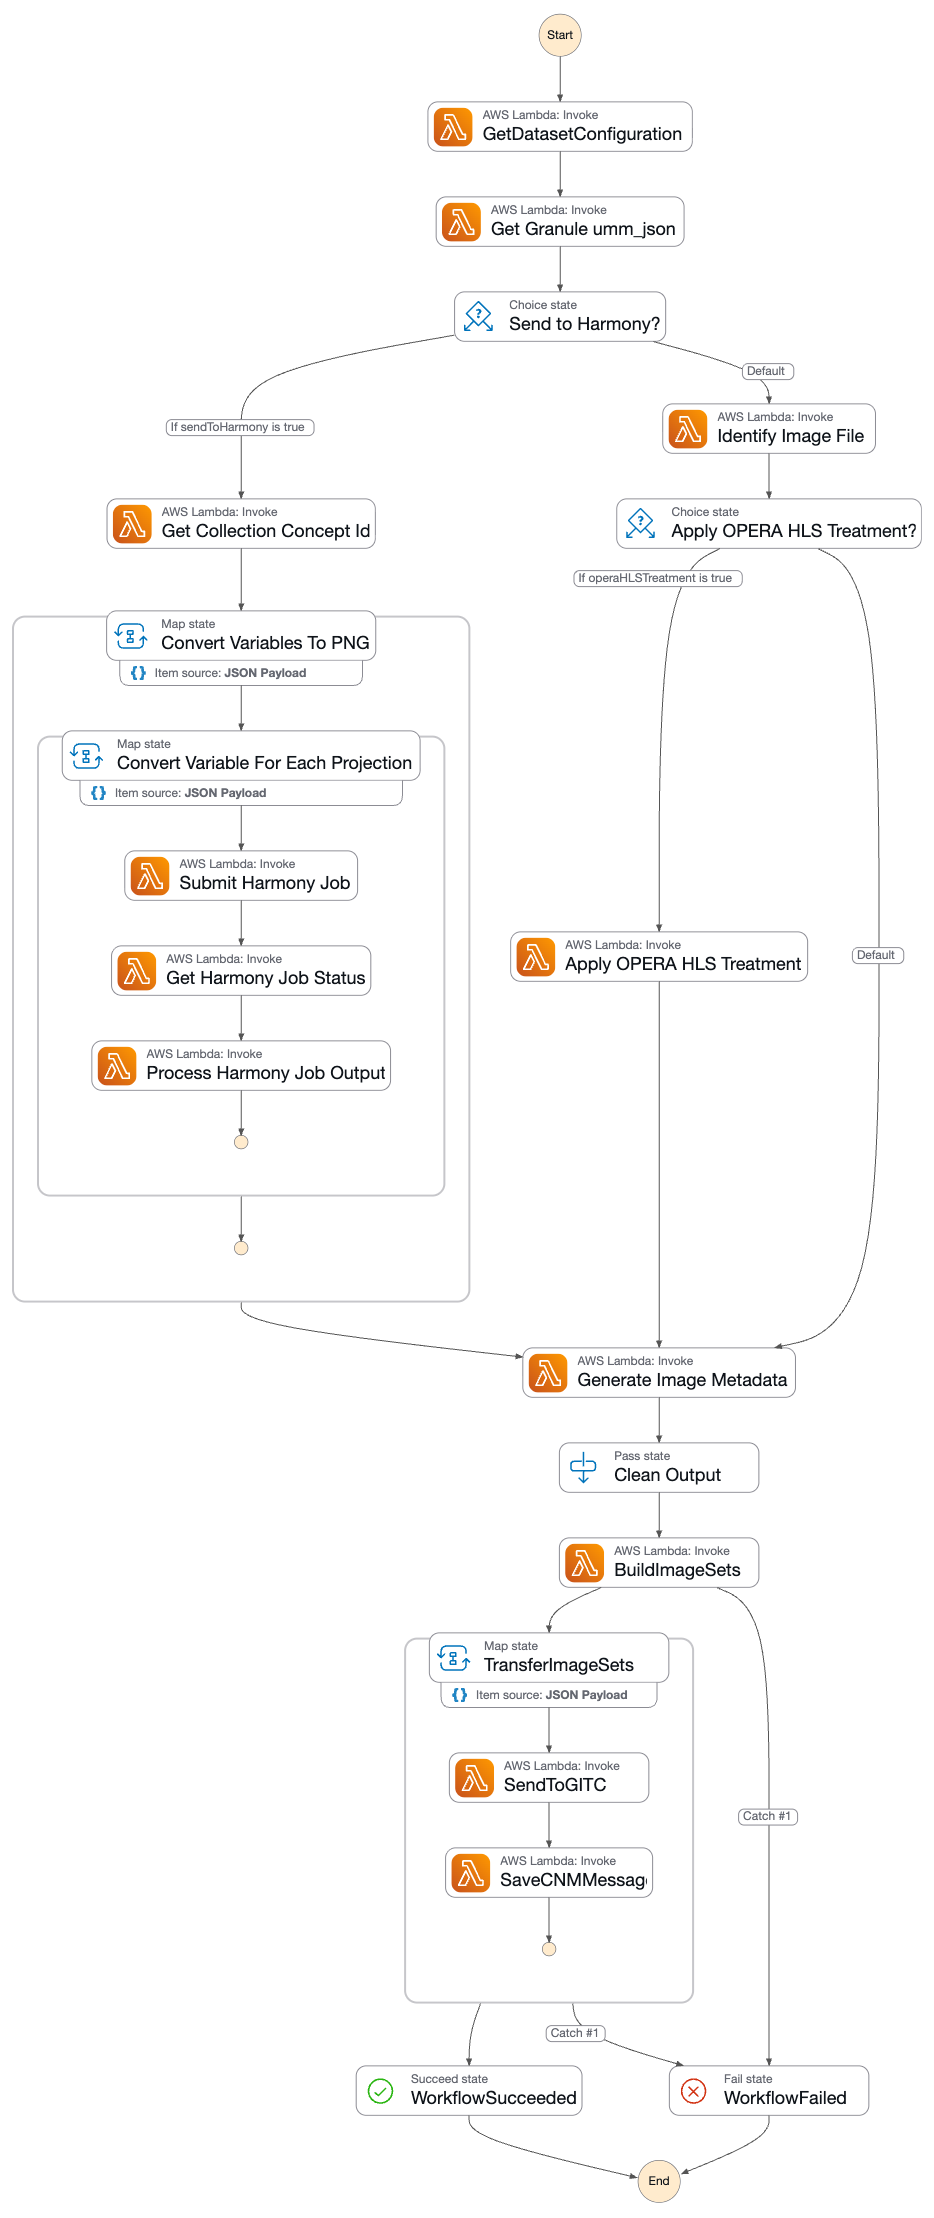
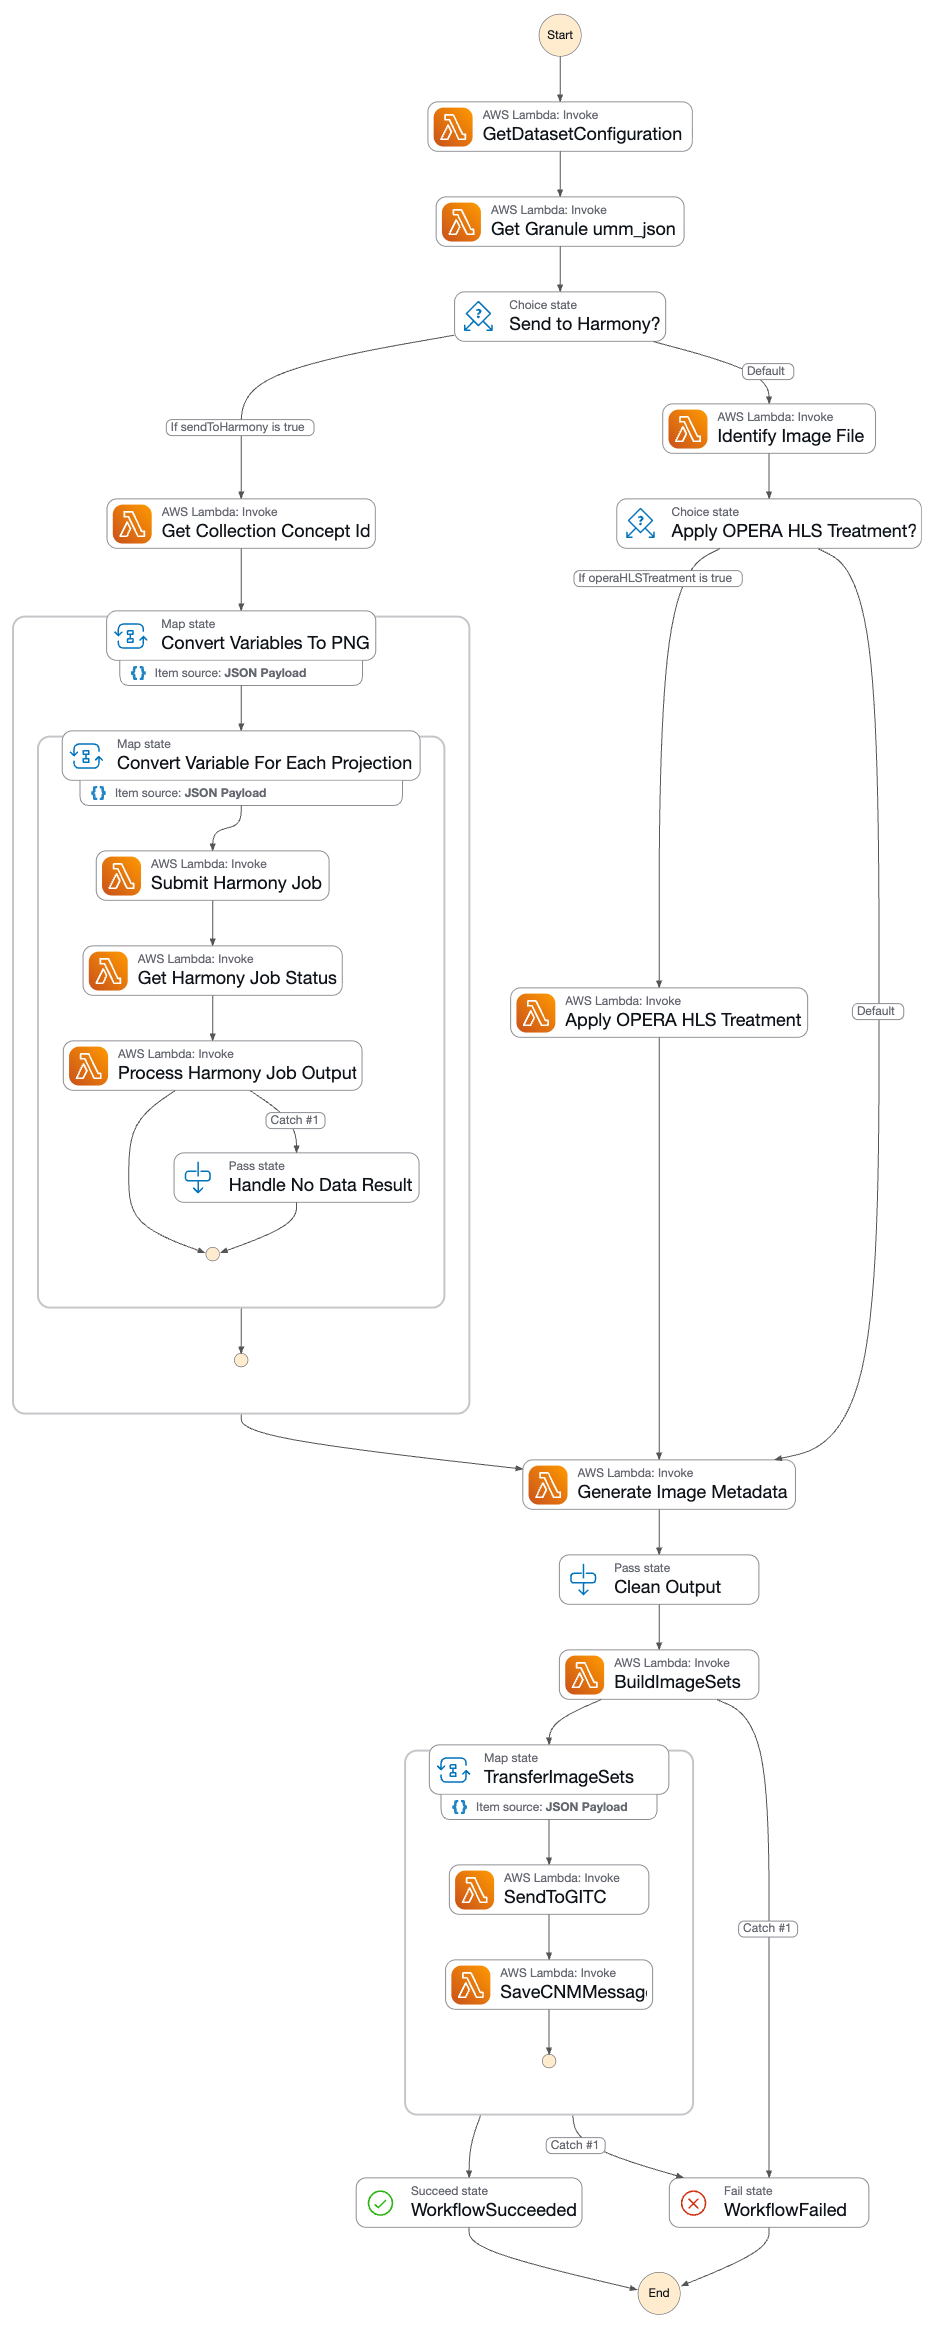
issue/108: handle case when no data is returned from a Harmony job (#146)
* issue/108: handle case when no data is returned from a Harmony job

* Updated step function graph

diff --git a/bignbit/process_harmony_results.py b/bignbit/process_harmony_results.py
@@ -14,6 +14,13 @@ from bignbit import utils
 CUMULUS_LOGGER = CumulusLogger('process_harmony_results')
 
 
+class HarmonyJobNoDataError(Exception):
+    """Exception raised when a harmony job completes successfully but returns no data"""
+
+    def __init__(self, message):
+        super().__init__(message)
+
+
 class CMA(Process):
     """Cumulus class to read the output from a harmony job"""
 
@@ -59,6 +66,11 @@ def process_results(harmony_job_id: str, cmr_env: str, variable: str, current_cr
     ----------
         dict
             A list of CMA file dictionaries pointing to the transformed image(s)
+
+    Raises
+    ----------
+    HarmonyJobNoDataError
+        When the Harmony job completes successfully but returns no data
     """
     s3_client = boto3.client('s3')
     harmony_client = utils.get_harmony_client(cmr_env)
@@ -66,6 +78,12 @@ def process_results(harmony_job_id: str, cmr_env: str, variable: str, current_cr
 
     CUMULUS_LOGGER.info("Processing {} result files for {}", len(result_urls), variable)
     CUMULUS_LOGGER.debug("Results: {}", result_urls)
+
+    # Check if Harmony returned no data
+    if not result_urls:
+        error_msg = f"Harmony job {harmony_job_id} completed successfully but returned no data for variable '{variable}' and CRS '{current_crs}'"
+        CUMULUS_LOGGER.warning(error_msg)
+        raise HarmonyJobNoDataError(error_msg)
 
     file_dicts = []
     for url in result_urls:

diff --git a/tests/test_process_harmony_results.py b/tests/test_process_harmony_results.py
@@ -8,7 +8,7 @@ import pytest
 from harmony import Collection, Request
 from moto import mock_s3
 
-from bignbit.process_harmony_results import process_results
+from bignbit.process_harmony_results import process_results, HarmonyJobNoDataError
 
 @pytest.mark.vcr
 @mock_s3
@@ -31,3 +31,21 @@ def test_process_results():
     assert len(results) == 3
     assert 'output_crs' in next(iter(results))
     assert 'EPSG:TEST' == next(iter(results))['output_crs']
+
+
+@pytest.mark.vcr
+@mock_s3
+def test_process_results_no_data():
+    """Test that HarmonyJobNoDataError is raised when Harmony returns no data"""
+    import bignbit.utils
+    bignbit.utils.ED_USER = 'test'
+    bignbit.utils.ED_PASS = 'test'
+
+    # Note: This test uses VCR to record the Harmony API response
+    # The cassette should show a successful job with no result URLs
+    with pytest.raises(HarmonyJobNoDataError) as exc_info:
+        process_results('60c6de41-a51a-4283-aa7c-2d530ebab8d9', 'ops', 'test_variable', 'EPSG:4326')
+
+    assert 'no data' in str(exc_info.value).lower()
+    assert 'test_variable' in str(exc_info.value)
+    assert 'EPSG:4326' in str(exc_info.value)

diff --git a/README.md b/README.md
@@ -201,6 +201,17 @@ considered a failure.
 
 For more details of what each of these parameters does, see the [AWS documentation](https://docs.aws.amazon.com/step-functions/latest/dg/concepts-error-handling.html#error-handling-retrying-after-an-error)
 
+### Behavior for Harmony requests that complete with no data
+
+Occasionally, a harmony request will complete and report success but no data files will be generated, this can occur for a number of reasons, 
+one of which is when a variable subsetting/filtering step completely filters all data from a granule. In these cases, the 
+"Process Harmony Job Output" workflow step, defined in the code as the `process_harmony_results.py` lambda, will raise 
+a HarmonyJobNoDataError. This exception does not trigger a failure in the whole workflow, as other variables associated with the granule may succeed.
+To track Harmony jobs that return no data in CloudWatch, the following warning can be tracked:
+```
+"Harmony job {job_id} completed successfully but returned no data for variable '{variable}' and CRS '{crs}'"
+```
+
 # GIBS Integration
 
 This module implements delivery of browse images to GIBS via [Cloud Notification Message](https://github.com/podaac/cloud-notification-message-schema)(CNM)

diff --git a/CHANGELOG.md b/CHANGELOG.md
@@ -7,6 +7,7 @@ and this project adheres to [Semantic Versioning](https://semver.org/spec/v2.0.0
 
 [Unreleased]
 ### Added
+- [issues/108](https://github.com/podaac/bignbit/issues/108): Handle case when no data is returned from a Harmony job by throwing a warning that can be tracked in CloudWatch logs.
 ### Changed
 ### Deprecated
 ### Removed
